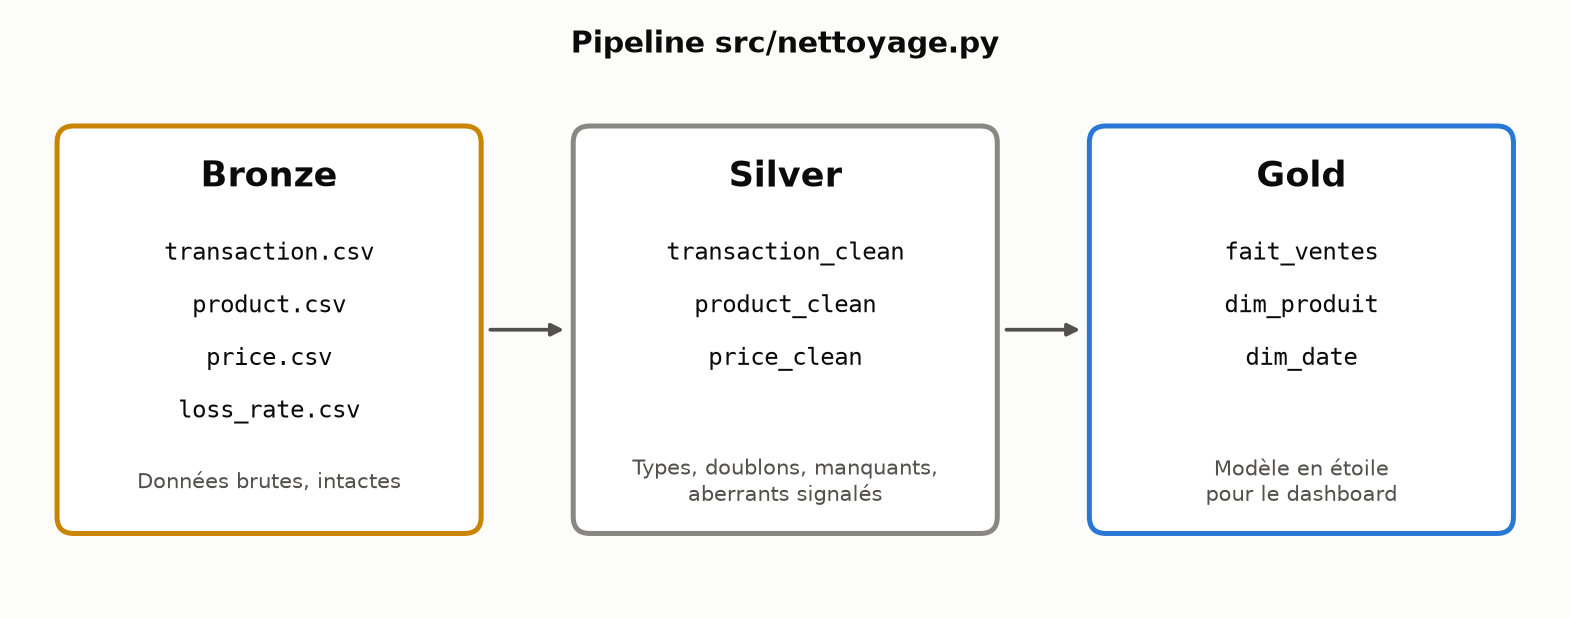
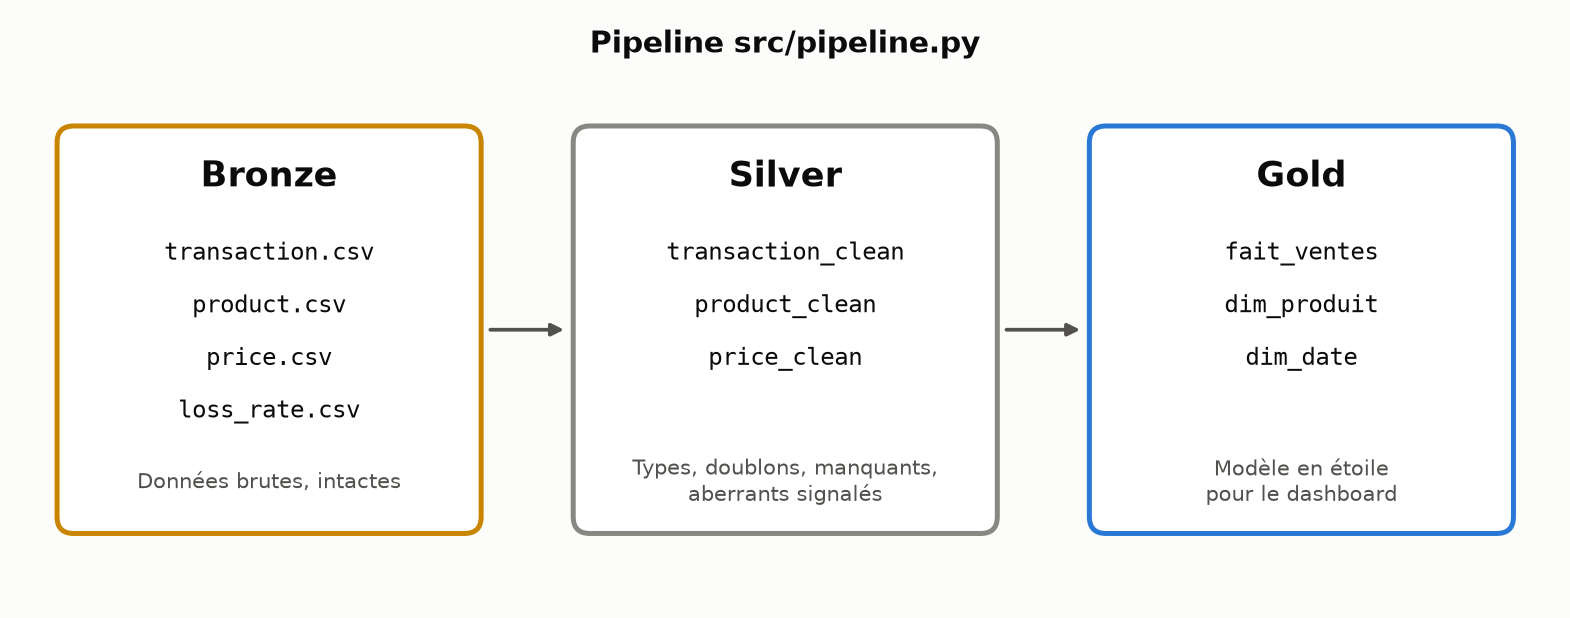
Structure du pipeline : un module de nettoyage par fichier source
- src/pipeline.py assemble les 4 modules et consolide le modèle en étoile
- src/clean_*.py : mise au format minimale, les contrôles qualité
  arrivent par les 4 branches feature
- README : stratégie Git de l'équipe (feature -> develop -> main)

Changed region(s): [[0.3433, 0.0307, 0.6554, 0.0922]]

diff --git a/src/pipeline.py b/src/pipeline.py
@@ -1,0 +1,93 @@
+"""
+Pipeline complet : Bronze (data/raw) -> Silver (data/silver) -> Gold (data/gold).
+
+Chaque fichier source a son propre module de nettoyage, développé sur sa
+branche feature :
+    clean_transaction.py  -> feature/clean-transaction
+    clean_product.py      -> feature/clean-product
+    clean_price.py        -> feature/clean-price
+    clean_loss_rate.py    -> feature/clean-loss-rate
+
+Ce fichier assemble les 4 modules et consolide le modèle en étoile.
+Lancer depuis la racine du repo :
+    python src/pipeline.py
+"""
+from pathlib import Path
+import pandas as pd
+
+from journal import journal, log
+import clean_transaction, clean_product, clean_price, clean_loss_rate
+
+RACINE = Path(__file__).resolve().parent.parent
+RAW, SILVER, GOLD, REPORTS = (RACINE / "data/raw", RACINE / "data/silver",
+                              RACINE / "data/gold", RACINE / "reports")
+
+
+def charger(nom):
+    """Lit un CSV brut. Item Code et Category Code sont des identifiants : lus en texte."""
+    df = pd.read_csv(RAW / f"{nom}.csv", encoding="utf-8-sig",
+                     dtype={"Item Code": str, "Category Code": str})
+    log("Chargement", f"{nom}.csv", f"{len(df):,} lignes".replace(",", " "), "lu en Bronze")
+    return df
+
+
+def consolider(t, p, pr, l):
+    n0 = len(t)
+    f = (t.merge(pr, on=["date", "item_code"], how="left", validate="many_to_one")
+          .merge(p[["item_code", "categorie"]], on="item_code", how="left", validate="many_to_one"))
+    log("Jointure", "transaction × price sur (date, item_code)", f"{n0} -> {len(f)} lignes",
+        "OK, aucune ligne dupliquée" if n0 == len(f) else "ERREUR : lignes dupliquées")
+    assert n0 == len(f), "La jointure a dupliqué des lignes"
+    log("Jointure", "ventes sans prix d'achat (orphelins)", f"{f['prix_achat'].isna().sum()}", "contrôlé")
+    log("Jointure", "ventes sans catégorie (orphelins)", f"{f['categorie'].isna().sum()}", "contrôlé")
+
+    f["ca"] = f["quantite_kg"] * f["prix_vente"]
+    f["cout_achat"] = f["quantite_kg"] * f["prix_achat"]
+    f["marge_brute"] = f["ca"] - f["cout_achat"]
+    f["flag_sous_prix_achat"] = f["prix_vente"] < f["prix_achat"]
+    log("Anomalies métier", "vente sous le prix d'achat", f"{f['flag_sous_prix_achat'].sum()} lignes",
+        "signalées (flag_sous_prix_achat), conservées")
+    f.insert(0, "transaction_id", range(1, len(f) + 1))
+    colonnes_flags = [c for c in f.columns if c.startswith("flag_")]
+    fait_ventes = f[["transaction_id", "date", "heure", "item_code", "quantite_kg", "prix_vente",
+                     "prix_achat", "promo", "est_retour", "ca", "cout_achat", "marge_brute"] + colonnes_flags]
+
+    dim_produit = p.merge(l[["item_code", "taux_perte_pct"]], on="item_code", how="left", validate="one_to_one")
+    log("Jointure", "produits sans taux de perte", f"{dim_produit['taux_perte_pct'].isna().sum()}", "contrôlé")
+
+    dim_date = pd.DataFrame({"date": pd.date_range(f["date"].min(), f["date"].max(), freq="D")})
+    dim_date["annee"], dim_date["mois"] = dim_date["date"].dt.year, dim_date["date"].dt.month
+    dim_date["jour_semaine"] = dim_date["date"].dt.dayofweek + 1
+    dim_date["periode"] = pd.cut(dim_date["date"],
+                                 [pd.Timestamp("2000-01-01"), pd.Timestamp("2021-07-01"),
+                                  pd.Timestamp("2022-07-01"), pd.Timestamp("2023-07-01")],
+                                 right=False, labels=["Antérieur", "N-1", "N"]).astype(str)
+    return fait_ventes, dim_produit, dim_date
+
+
+def ecrire(t, p, pr, l, fait_ventes, dim_produit, dim_date):
+    for d in (SILVER, GOLD, REPORTS):
+        d.mkdir(parents=True, exist_ok=True)
+    t.to_csv(SILVER / "transaction_clean.csv.gz", index=False)
+    p.to_csv(SILVER / "product_clean.csv", index=False)
+    pr.to_csv(SILVER / "price_clean.csv.gz", index=False)
+    l.to_csv(SILVER / "loss_rate_clean.csv", index=False)
+    fait_ventes.to_csv(GOLD / "fait_ventes.csv.gz", index=False)
+    dim_produit.to_csv(GOLD / "dim_produit.csv", index=False)
+    dim_date.to_csv(GOLD / "dim_date.csv", index=False)
+
+    rapport = pd.DataFrame(journal)
+    lignes = ["# Rapport qualité (généré par src/pipeline.py)", "",
+              "| " + " | ".join(rapport.columns) + " |", "|" + "---|" * len(rapport.columns)]
+    lignes += ["| " + " | ".join(map(str, r)) + " |" for r in rapport.itertuples(index=False)]
+    (REPORTS / "rapport_qualite.md").write_text("\n".join(lignes) + "\n", encoding="utf-8")
+    print(f"\nRapport : {REPORTS / 'rapport_qualite.md'}")
+
+
+if __name__ == "__main__":
+    t = clean_transaction.nettoyer(charger("transaction"))
+    p = clean_product.nettoyer(charger("product"))
+    pr = clean_price.nettoyer(charger("price"))
+    l = clean_loss_rate.nettoyer(charger("loss_rate"))
+    fait_ventes, dim_produit, dim_date = consolider(t, p, pr, l)
+    ecrire(t, p, pr, l, fait_ventes, dim_produit, dim_date)

diff --git a/src/clean_transaction.py b/src/clean_transaction.py
@@ -1,0 +1,16 @@
+"""Nettoyage de transaction.csv (branche feature/clean-transaction)."""
+import pandas as pd
+
+COLONNES = {"Date": "date", "Time": "heure", "Item Code": "item_code",
+            "Quantity Sold (kilo)": "quantite_kg", "Unit Selling Price (RMB/kg)": "prix_vente",
+            "Sale or Return": "type_ligne", "Discount (Yes/No)": "promo"}
+
+
+def nettoyer(t):
+    # Mise au format minimale, nécessaire aux jointures du pipeline.
+    # TODO feature/clean-transaction : contrôles qualité (manquants, doublons, aberrants).
+    t = t.rename(columns=COLONNES)
+    t["date"] = pd.to_datetime(t["date"], format="%Y-%m-%d")
+    t["promo"] = t["promo"].map({"Yes": True, "No": False})
+    t["est_retour"] = t["type_ligne"].eq("return")
+    return t.drop(columns="type_ligne")

diff --git a/src/clean_price.py b/src/clean_price.py
@@ -1,0 +1,12 @@
+"""Nettoyage de price.csv (branche feature/clean-price)."""
+import pandas as pd
+
+COLONNES = {"Date": "date", "Item Code": "item_code", "Wholesale Price (RMB/kg)": "prix_achat"}
+
+
+def nettoyer(pr):
+    # Mise au format minimale, nécessaire aux jointures du pipeline.
+    # TODO feature/clean-price : contrôles qualité (clé unique, prix aberrants).
+    pr = pr.rename(columns=COLONNES)
+    pr["date"] = pd.to_datetime(pr["date"], format="%Y-%m-%d")
+    return pr

diff --git a/src/clean_product.py b/src/clean_product.py
@@ -1,0 +1,10 @@
+"""Nettoyage de product.csv (branche feature/clean-product)."""
+
+COLONNES = {"Item Code": "item_code", "Item Name": "nom_produit",
+            "Category Code": "code_categorie", "Category Name": "categorie"}
+
+
+def nettoyer(p):
+    # Mise au format minimale, nécessaire aux jointures du pipeline.
+    # TODO feature/clean-product : contrôles qualité (espaces cachés, doublons, manquants).
+    return p.rename(columns=COLONNES)

diff --git a/src/clean_loss_rate.py b/src/clean_loss_rate.py
@@ -1,0 +1,9 @@
+"""Nettoyage de loss_rate.csv (branche feature/clean-loss-rate)."""
+
+COLONNES = {"Item Code": "item_code", "Item Name": "nom_produit_perte", "Loss Rate (%)": "taux_perte_pct"}
+
+
+def nettoyer(l):
+    # Mise au format minimale, nécessaire aux jointures du pipeline.
+    # TODO feature/clean-loss-rate : contrôles qualité (taux entre 0 et 100, doublons, manquants).
+    return l.rename(columns=COLONNES)

diff --git a/src/journal.py b/src/journal.py
@@ -1,0 +1,8 @@
+"""Journal des contrôles qualité, partagé par tous les modules."""
+
+journal = []
+
+
+def log(etape, controle, resultat, action):
+    journal.append({"Étape": etape, "Contrôle": controle, "Résultat": resultat, "Action": action})
+    print(f"[{etape}] {controle} : {resultat} -> {action}")

diff --git a/README.md b/README.md
@@ -13,17 +13,34 @@ Exercice 2 du module Data Analytics (Eugenia School, novembre 2026).
 
 ```bash
 pip install -r requirements.txt
-python src/nettoyage.py
+python src/pipeline.py
 ```
 
-### Comment on travaille à deux sur Git
+### Stratégie Git de l'équipe (le push sans conflit)
 
-| Branche | Rôle |
-|---|---|
-| `main` | La version stable, celle qu'on rend. On n'y travaille jamais directement |
-| `dev` | La branche de travail : chaque modification y est commitée et testée d'abord |
+```
+feature/clean-transaction ──┐
+feature/clean-price ────────┤   PR relue par l'autre
+feature/clean-product ──────┼──────────────────────► develop ──── PR ────► main
+feature/clean-loss-rate ────┘                       (intégration)        (production)
+```
 
-Le cycle : on travaille sur `dev`, on lance `python src/nettoyage.py` pour vérifier que tout passe, puis on fusionne `dev` dans `main` (par une Pull Request relue par l'autre membre du binôme).
+| Branche | Type | Rôle | Responsable |
+|---|---|---|---|
+| `feature/clean-transaction` | Feature | Nettoyage de transaction.csv (`src/clean_transaction.py`) | Jahdiel |
+| `feature/clean-price` | Feature | Nettoyage de price.csv (`src/clean_price.py`) | Jahdiel |
+| `feature/clean-product` | Feature | Nettoyage de product.csv (`src/clean_product.py`) | Alec |
+| `feature/clean-loss-rate` | Feature | Nettoyage de loss_rate.csv (`src/clean_loss_rate.py`) | Alec |
+| `develop` | Intégration | On y fusionne les 4 features pour tester le pipeline complet | Les deux |
+| `main` | Production | Le code propre et validé, celui qu'on rend | Les deux |
+
+**Pourquoi il n'y a pas de conflit** : chaque branche feature ne modifie **qu'un seul fichier**, son module `clean_*.py`. Deux personnes ne touchent jamais le même fichier en même temps. Le fichier `src/pipeline.py`, qui assemble les 4 modules, n'est modifié que sur `develop`.
+
+**Le cycle** :
+1. Chacun part de `develop` et crée sa branche feature.
+2. Il code son module, lance `python src/pipeline.py`, puis commit et push sur sa branche.
+3. Il ouvre une Pull Request feature → `develop`, **relue et fusionnée par l'autre**.
+4. Quand les 4 features sont dans `develop` et que le pipeline complet passe, une Pull Request `develop` → `main` publie la version finale.
 
 Les fichiers bruts vont dans `data/raw/`. Ils ne sont **pas versionnés** dans Git : 50 Mo de données n'ont rien à faire dans un dépôt de code (voir `.gitignore`).
 
@@ -108,7 +125,7 @@ dim_produit ──── fait_ventes
 
 ![Pipeline Bronze, Silver, Gold](docs/images/03_pipeline_medaillon.png)
 
-Le script [`src/nettoyage.py`](src/nettoyage.py) fait tout le passage de Bronze à Gold :
+Le script [`src/pipeline.py`](src/pipeline.py), qui assemble les 4 modules `src/clean_*.py`, fait tout le passage de Bronze à Gold :
 
 1. **Chargement** : lecture des 4 CSV, avec `item_code` en texte.
 2. **Nettoyage** : noms de colonnes en français, types corrigés, espaces insécables supprimés, doublons et manquants contrôlés, valeurs aberrantes signalées.

diff --git a/reports/rapport_qualite.md b/reports/rapport_qualite.md
@@ -1,4 +1,4 @@
-# Rapport qualité (généré par src/nettoyage.py)
+# Rapport qualité (généré par src/pipeline.py)
 
 | Étape | Contrôle | Résultat | Action |
 |---|---|---|---|
@@ -6,18 +6,8 @@
 | Chargement | product.csv | 251 lignes | lu en Bronze |
 | Chargement | price.csv | 55 982 lignes | lu en Bronze |
 | Chargement | loss_rate.csv | 251 lignes | lu en Bronze |
-| Types | Espaces insécables dans les catégories | 100 articles | remplacés par un espace normal |
-| Doublons | price : clé (date, item_code) | 0 doublon | aucune action |
-| Types | date texte -> date, promo Yes/No -> booléen | OK | convertis |
-| Manquants | transaction : cellules vides | 0 | aucune action |
-| Doublons | transaction : lignes identiques | 0 | aucune action |
-| Doublons | transaction : même date + heure + article | 2 lignes | gardées : quantités différentes, deux pesées distinctes |
-| Aberrants | retour sans quantité négative (ou l'inverse) | 0 | aucune action |
-| Aberrants | quantité > Q3 + 1,5 × IQR (1.42 kg) | 10570 lignes | signalées (flag_qte_iqr), conservées |
-| Aberrants | quantité > 50 kg (règle métier) | 1 ligne | signalée (flag_qte_extreme), à exclure des analyses |
-| Aberrants | prix de vente <= 0 | 0 | aucune action |
 | Jointure | transaction × price sur (date, item_code) | 878503 -> 878503 lignes | OK, aucune ligne dupliquée |
-| Jointure | ventes sans prix d'achat (orphelins) | 0 | aucune action |
-| Jointure | ventes sans catégorie (orphelins) | 0 | aucune action |
+| Jointure | ventes sans prix d'achat (orphelins) | 0 | contrôlé |
+| Jointure | ventes sans catégorie (orphelins) | 0 | contrôlé |
 | Anomalies métier | vente sous le prix d'achat | 12660 lignes | signalées (flag_sous_prix_achat), conservées |
-| Jointure | produits sans taux de perte | 0 | aucune action |
+| Jointure | produits sans taux de perte | 0 | contrôlé |
